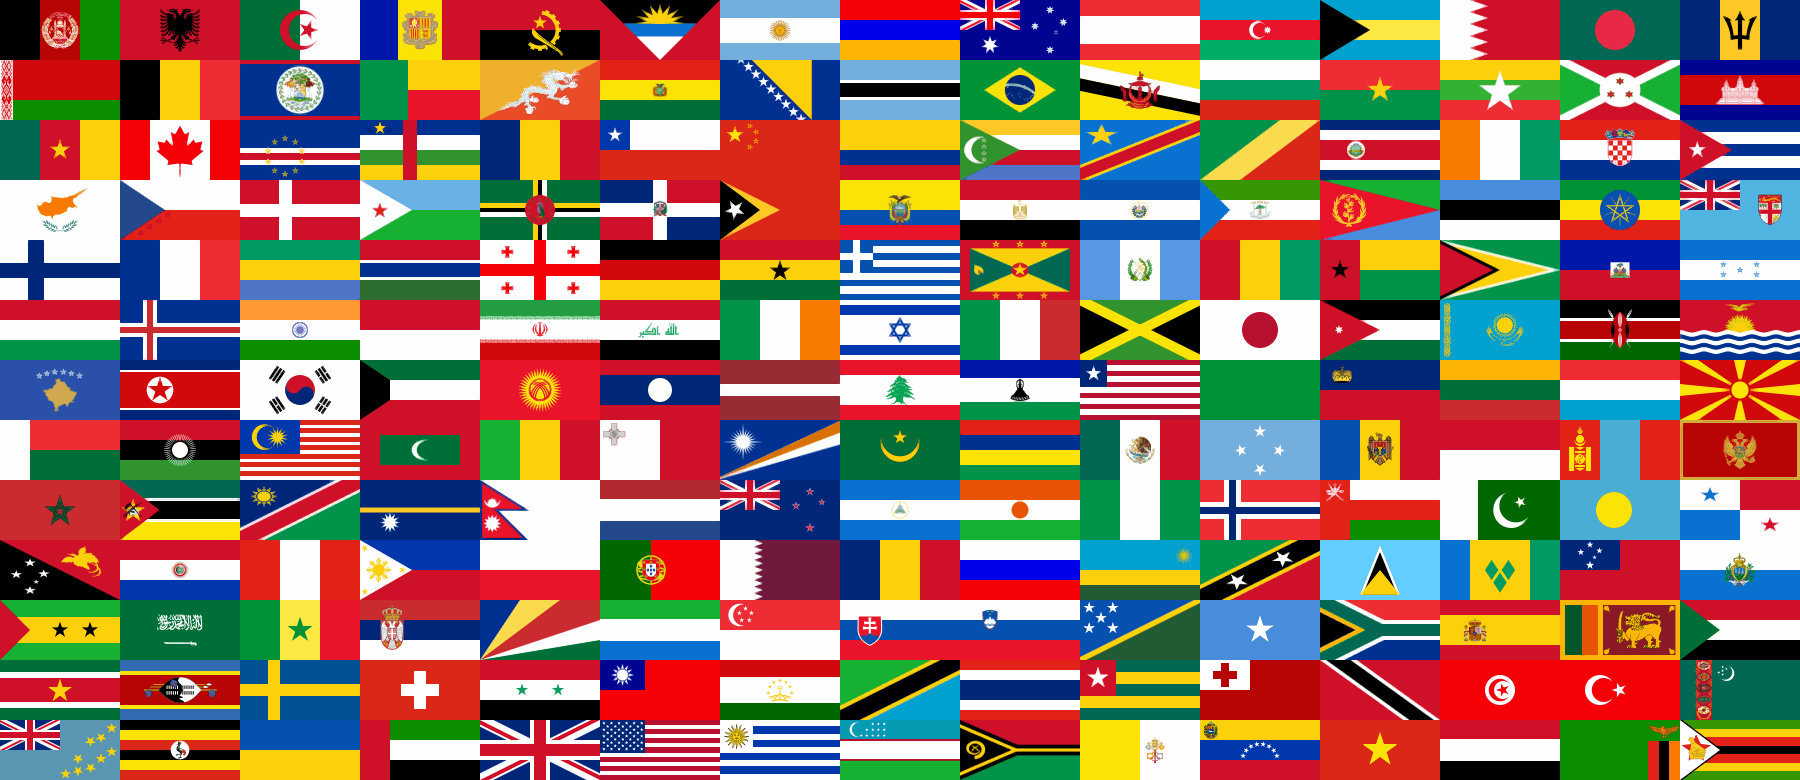
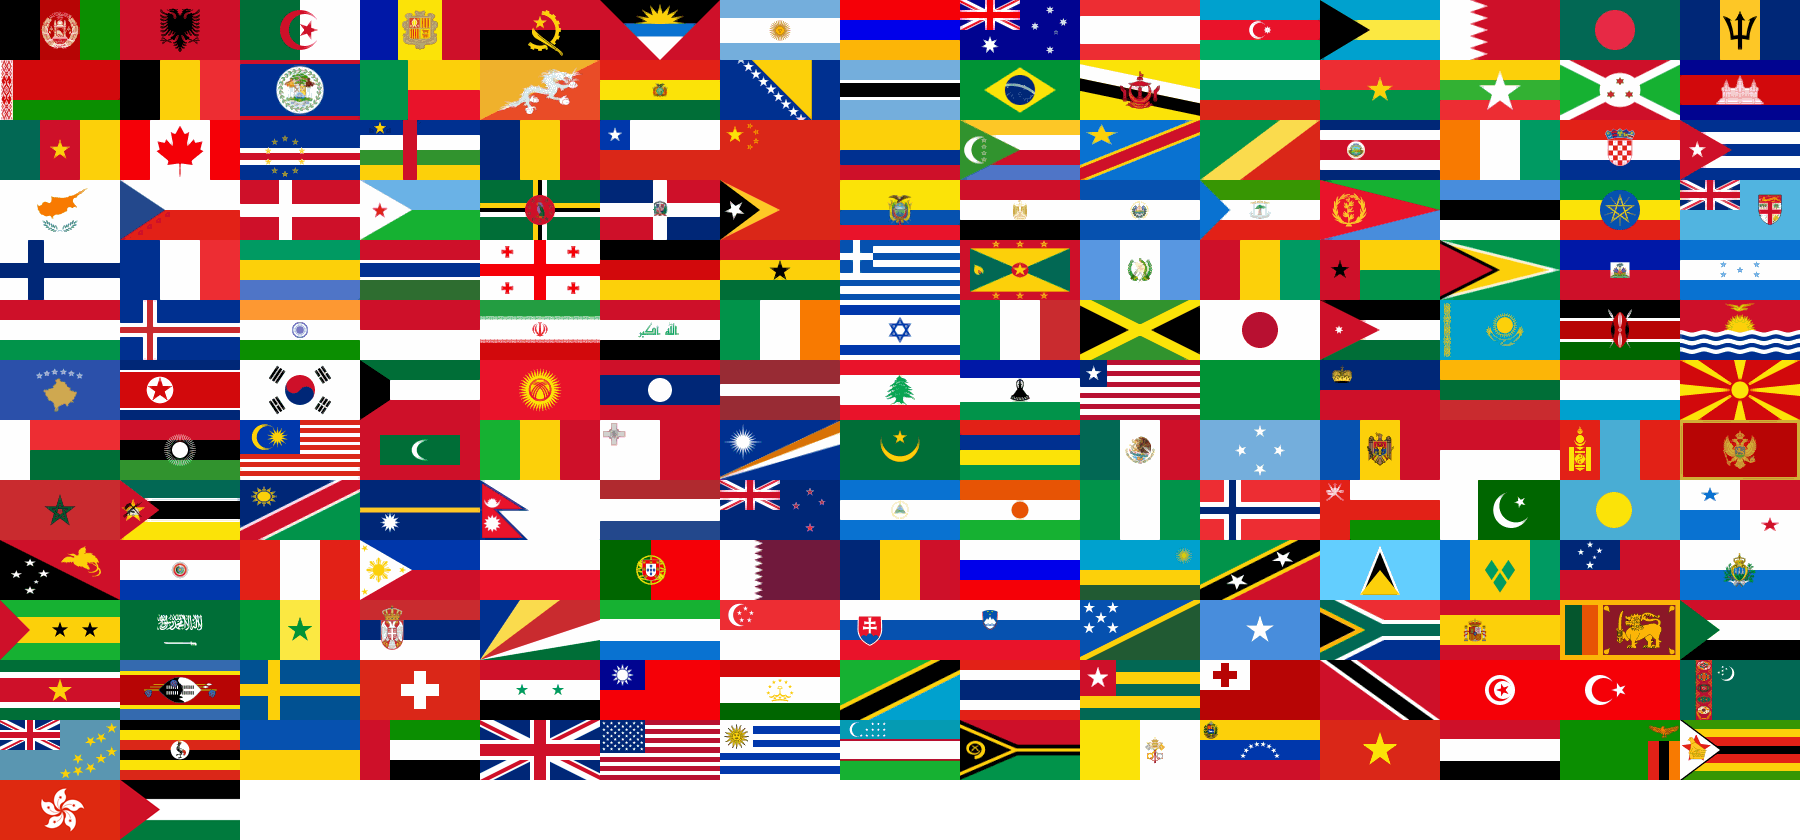
Update to include Hong Kong and Palestinian Flags

diff --git a/_flags.scss b/_flags.scss
@@ -16,22 +16,22 @@
 
 }
 
-.flag-AF:before{background-position:-0px -0px;}
-.flag-AL:before{background-position:-120px -0px;}
-.flag-DZ:before{background-position:-240px -0px;}
-.flag-AO:before{background-position:-360px -0px;}
-.flag-AG:before{background-position:-480px -0px;}
-.flag-AR:before{background-position:-600px -0px;}
-.flag-AM:before{background-position:-720px -0px;}
-.flag-AU:before{background-position:-840px -0px;}
-.flag-AT:before{background-position:-960px -0px;}
-.flag-AZ:before{background-position:-1080px -0px;}
-.flag-BS:before{background-position:-1200px -0px;}
-.flag-BH:before{background-position:-1320px -0px;}
-.flag-BD:before{background-position:-1440px -0px;}
-.flag-BB:before{background-position:-1560px -0px;}
-.flag-BY:before{background-position:-1680px -0px;}
-.flag-BE:before{background-position:-0px -60px;}
+.flag-AF:before{background-position:0 0;}
+.flag-AL:before{background-position:-120px 0;}
+.flag-DZ:before{background-position:-240px 0;}
+.flag-AO:before{background-position:-360px 0;}
+.flag-AG:before{background-position:-480px 0;}
+.flag-AR:before{background-position:-600px 0;}
+.flag-AM:before{background-position:-720px 0;}
+.flag-AU:before{background-position:-840px 0;}
+.flag-AT:before{background-position:-960px 0;}
+.flag-AZ:before{background-position:-1080px 0;}
+.flag-BS:before{background-position:-1200px 0;}
+.flag-BH:before{background-position:-1320px 0;}
+.flag-BD:before{background-position:-1440px 0;}
+.flag-BB:before{background-position:-1560px 0;}
+.flag-BY:before{background-position:-1680px 0;}
+.flag-BE:before{background-position:0 -60px;}
 .flag-BZ:before{background-position:-120px -60px;}
 .flag-BJ:before{background-position:-240px -60px;}
 .flag-BT:before{background-position:-360px -60px;}
@@ -46,7 +46,7 @@
 .flag-MM:before{background-position:-1440px -60px;}
 .flag-BI:before{background-position:-1560px -60px;}
 .flag-KH:before{background-position:-1680px -60px;}
-.flag-CM:before{background-position:-0px -120px;}
+.flag-CM:before{background-position:0 -120px;}
 .flag-CA:before{background-position:-120px -120px;}
 .flag-CV:before{background-position:-240px -120px;}
 .flag-CF:before{background-position:-360px -120px;}
@@ -61,7 +61,7 @@
 .flag-CI:before{background-position:-1440px -120px;}
 .flag-HR:before{background-position:-1560px -120px;}
 .flag-CU:before{background-position:-1680px -120px;}
-.flag-CY:before{background-position:-0px -180px;}
+.flag-CY:before{background-position:0 -180px;}
 .flag-CZ:before{background-position:-120px -180px;}
 .flag-DK:before{background-position:-240px -180px;}
 .flag-DJ:before{background-position:-360px -180px;}
@@ -76,7 +76,7 @@
 .flag-EE:before{background-position:-1440px -180px;}
 .flag-ET:before{background-position:-1560px -180px;}
 .flag-FJ:before{background-position:-1680px -180px;}
-.flag-FI:before{background-position:-0px -240px;}
+.flag-FI:before{background-position:0 -240px;}
 .flag-FR:before{background-position:-120px -240px;}
 .flag-GA:before{background-position:-240px -240px;}
 .flag-GM:before{background-position:-360px -240px;}
@@ -91,7 +91,7 @@
 .flag-GY:before{background-position:-1440px -240px;}
 .flag-HT:before{background-position:-1560px -240px;}
 .flag-HN:before{background-position:-1680px -240px;}
-.flag-HU:before{background-position:-0px -300px;}
+.flag-HU:before{background-position:0 -300px;}
 .flag-IS:before{background-position:-120px -300px;}
 .flag-IN:before{background-position:-240px -300px;}
 .flag-ID:before{background-position:-360px -300px;}
@@ -106,7 +106,7 @@
 .flag-KZ:before{background-position:-1440px -300px;}
 .flag-KE:before{background-position:-1560px -300px;}
 .flag-KI:before{background-position:-1680px -300px;}
-.flag-XK:before{background-position:-0px -360px;}
+.flag-XK:before{background-position:0 -360px;}
 .flag-KP:before{background-position:-120px -360px;}
 .flag-KR:before{background-position:-240px -360px;}
 .flag-KW:before{background-position:-360px -360px;}
@@ -121,7 +121,7 @@
 .flag-LT:before{background-position:-1440px -360px;}
 .flag-LU:before{background-position:-1560px -360px;}
 .flag-MK:before{background-position:-1680px -360px;}
-.flag-MG:before{background-position:-0px -420px;}
+.flag-MG:before{background-position:0 -420px;}
 .flag-MW:before{background-position:-120px -420px;}
 .flag-MY:before{background-position:-240px -420px;}
 .flag-MV:before{background-position:-360px -420px;}
@@ -136,7 +136,7 @@
 .flag-MC:before{background-position:-1440px -420px;}
 .flag-MN:before{background-position:-1560px -420px;}
 .flag-ME:before{background-position:-1680px -420px;}
-.flag-MA:before{background-position:-0px -480px;}
+.flag-MA:before{background-position:0 -480px;}
 .flag-MZ:before{background-position:-120px -480px;}
 .flag-NA:before{background-position:-240px -480px;}
 .flag-NR:before{background-position:-360px -480px;}
@@ -151,7 +151,7 @@
 .flag-PK:before{background-position:-1440px -480px;}
 .flag-PW:before{background-position:-1560px -480px;}
 .flag-PA:before{background-position:-1680px -480px;}
-.flag-PG:before{background-position:-0px -540px;}
+.flag-PG:before{background-position:0 -540px;}
 .flag-PY:before{background-position:-120px -540px;}
 .flag-PE:before{background-position:-240px -540px;}
 .flag-PH:before{background-position:-360px -540px;}
@@ -166,7 +166,7 @@
 .flag-VC:before{background-position:-1440px -540px;}
 .flag-WS:before{background-position:-1560px -540px;}
 .flag-SM:before{background-position:-1680px -540px;}
-.flag-ST:before{background-position:-0px -600px;}
+.flag-ST:before{background-position:0 -600px;}
 .flag-SA:before{background-position:-120px -600px;}
 .flag-SN:before{background-position:-240px -600px;}
 .flag-RS:before{background-position:-360px -600px;}
@@ -181,7 +181,7 @@
 .flag-ES:before{background-position:-1440px -600px;}
 .flag-LK:before{background-position:-1560px -600px;}
 .flag-SD:before{background-position:-1680px -600px;}
-.flag-SR:before{background-position:-0px -660px;}
+.flag-SR:before{background-position:0 -660px;}
 .flag-SZ:before{background-position:-120px -660px;}
 .flag-SE:before{background-position:-240px -660px;}
 .flag-CH:before{background-position:-360px -660px;}
@@ -196,7 +196,7 @@
 .flag-TN:before{background-position:-1440px -660px;}
 .flag-TR:before{background-position:-1560px -660px;}
 .flag-TM:before{background-position:-1680px -660px;}
-.flag-TV:before{background-position:-0px -720px;}
+.flag-TV:before{background-position:0 -720px;}
 .flag-UG:before{background-position:-120px -720px;}
 .flag-UA:before{background-position:-240px -720px;}
 .flag-AE:before{background-position:-360px -720px;}
@@ -211,3 +211,5 @@
 .flag-YE:before{background-position:-1440px -720px;}
 .flag-ZM:before{background-position:-1560px -720px;}
 .flag-ZW:before{background-position:-1680px -720px;}
+.flag-HK:before{background-position:0,-780px;}
+.flag-PS:before{background-position:-120px,-780px;}
